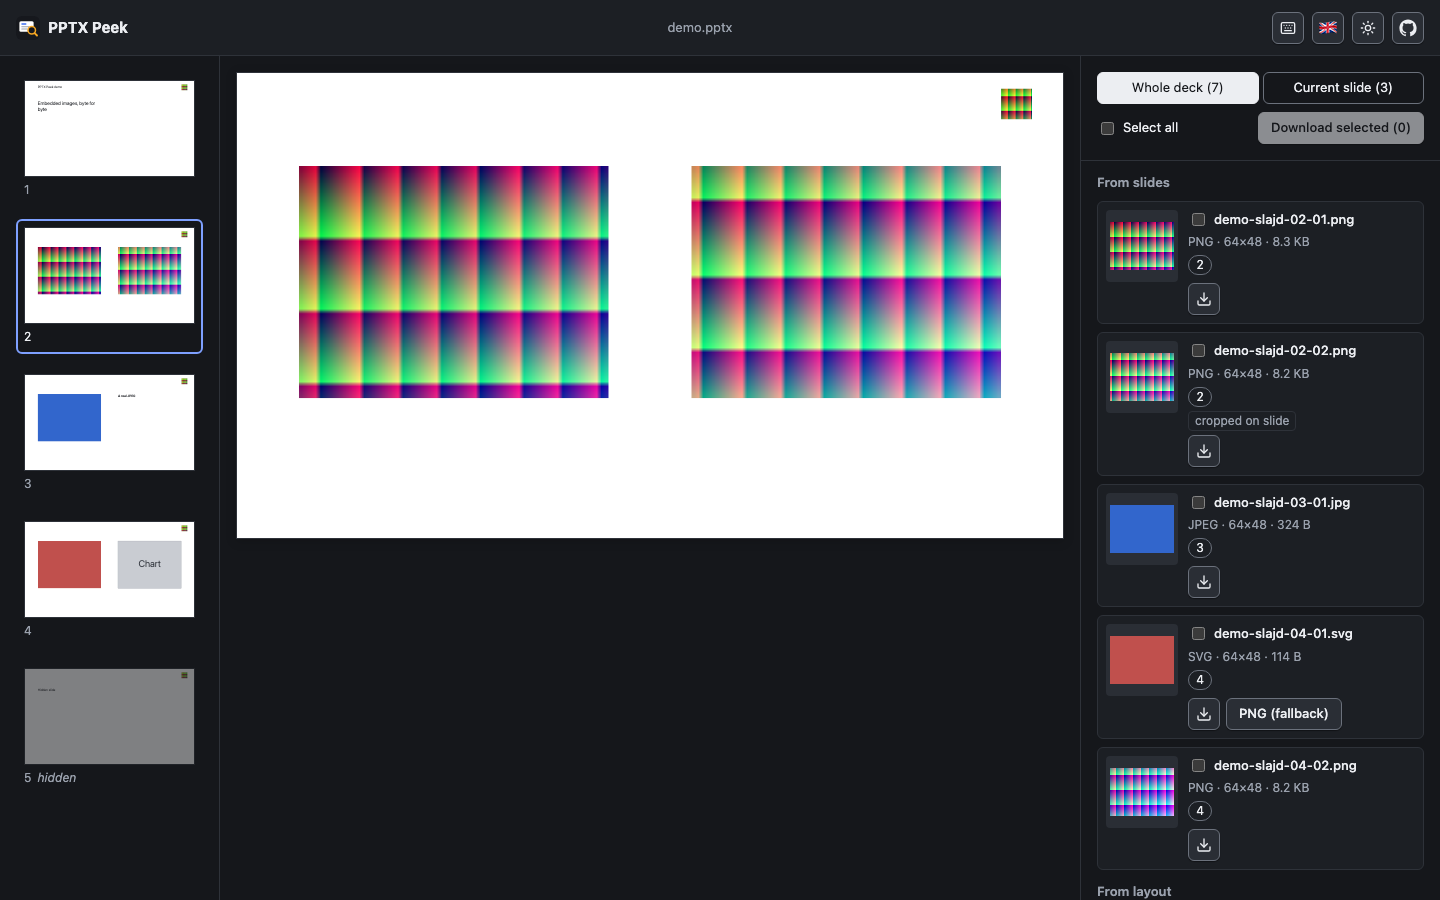
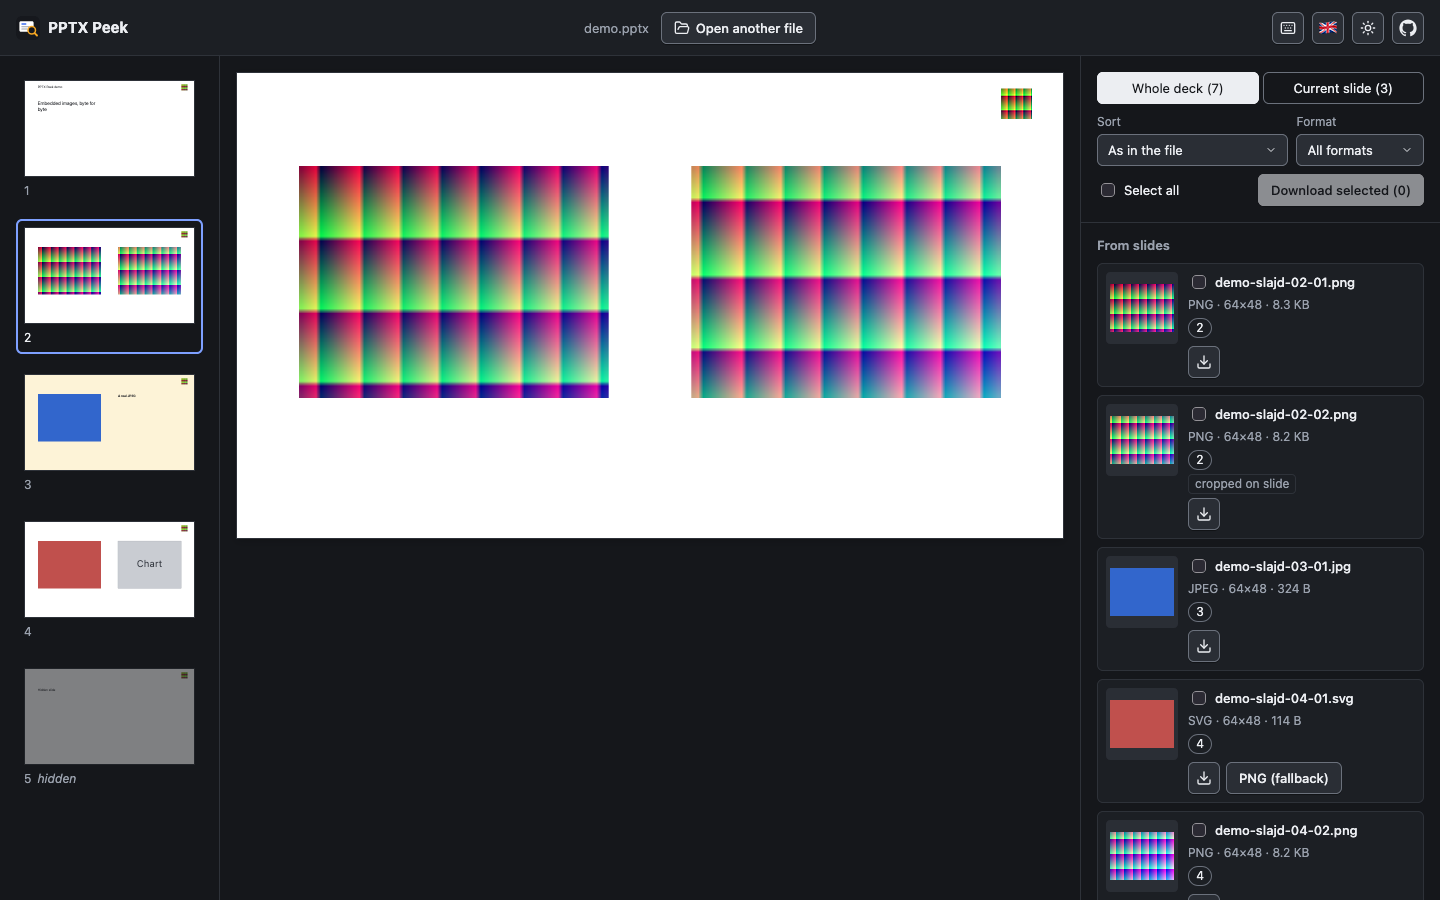
docs: list preview, sorting and range selection; refresh screenshots

diff --git a/README.md b/README.md
@@ -15,9 +15,11 @@ PPTX Peek opens a PowerPoint file (`.pptx`, `.pptm`, `.ppsx`, `.potx` and their 
 - 🔒 Works fully offline in the browser, your file is never uploaded
 - 🖼 Exports images byte-for-byte, no re-encoding
 - 🧭 Shows pictures grouped by slide, layout and unused media
+- 🔎 Previews any picture at full size, fitted or pixel for pixel
+- 📊 Sorts pictures by file size or resolution and filters them by format _(find what bloats the deck)_
 - 📦 Downloads a single image, or saves every selected one straight into a folder (Chrome and Edge) or as one ZIP elsewhere
 - 🌗 Light and dark theme, Polish and English interface
-- ⌨ Keyboard shortcuts for quick work
+- ⌨ Keyboard shortcuts and Shift-click range selection for quick work
 
 The quality of an exported image is capped by what is stored in the file: presentation software compresses pictures on save by default, so the original resolution may already be gone.
 
